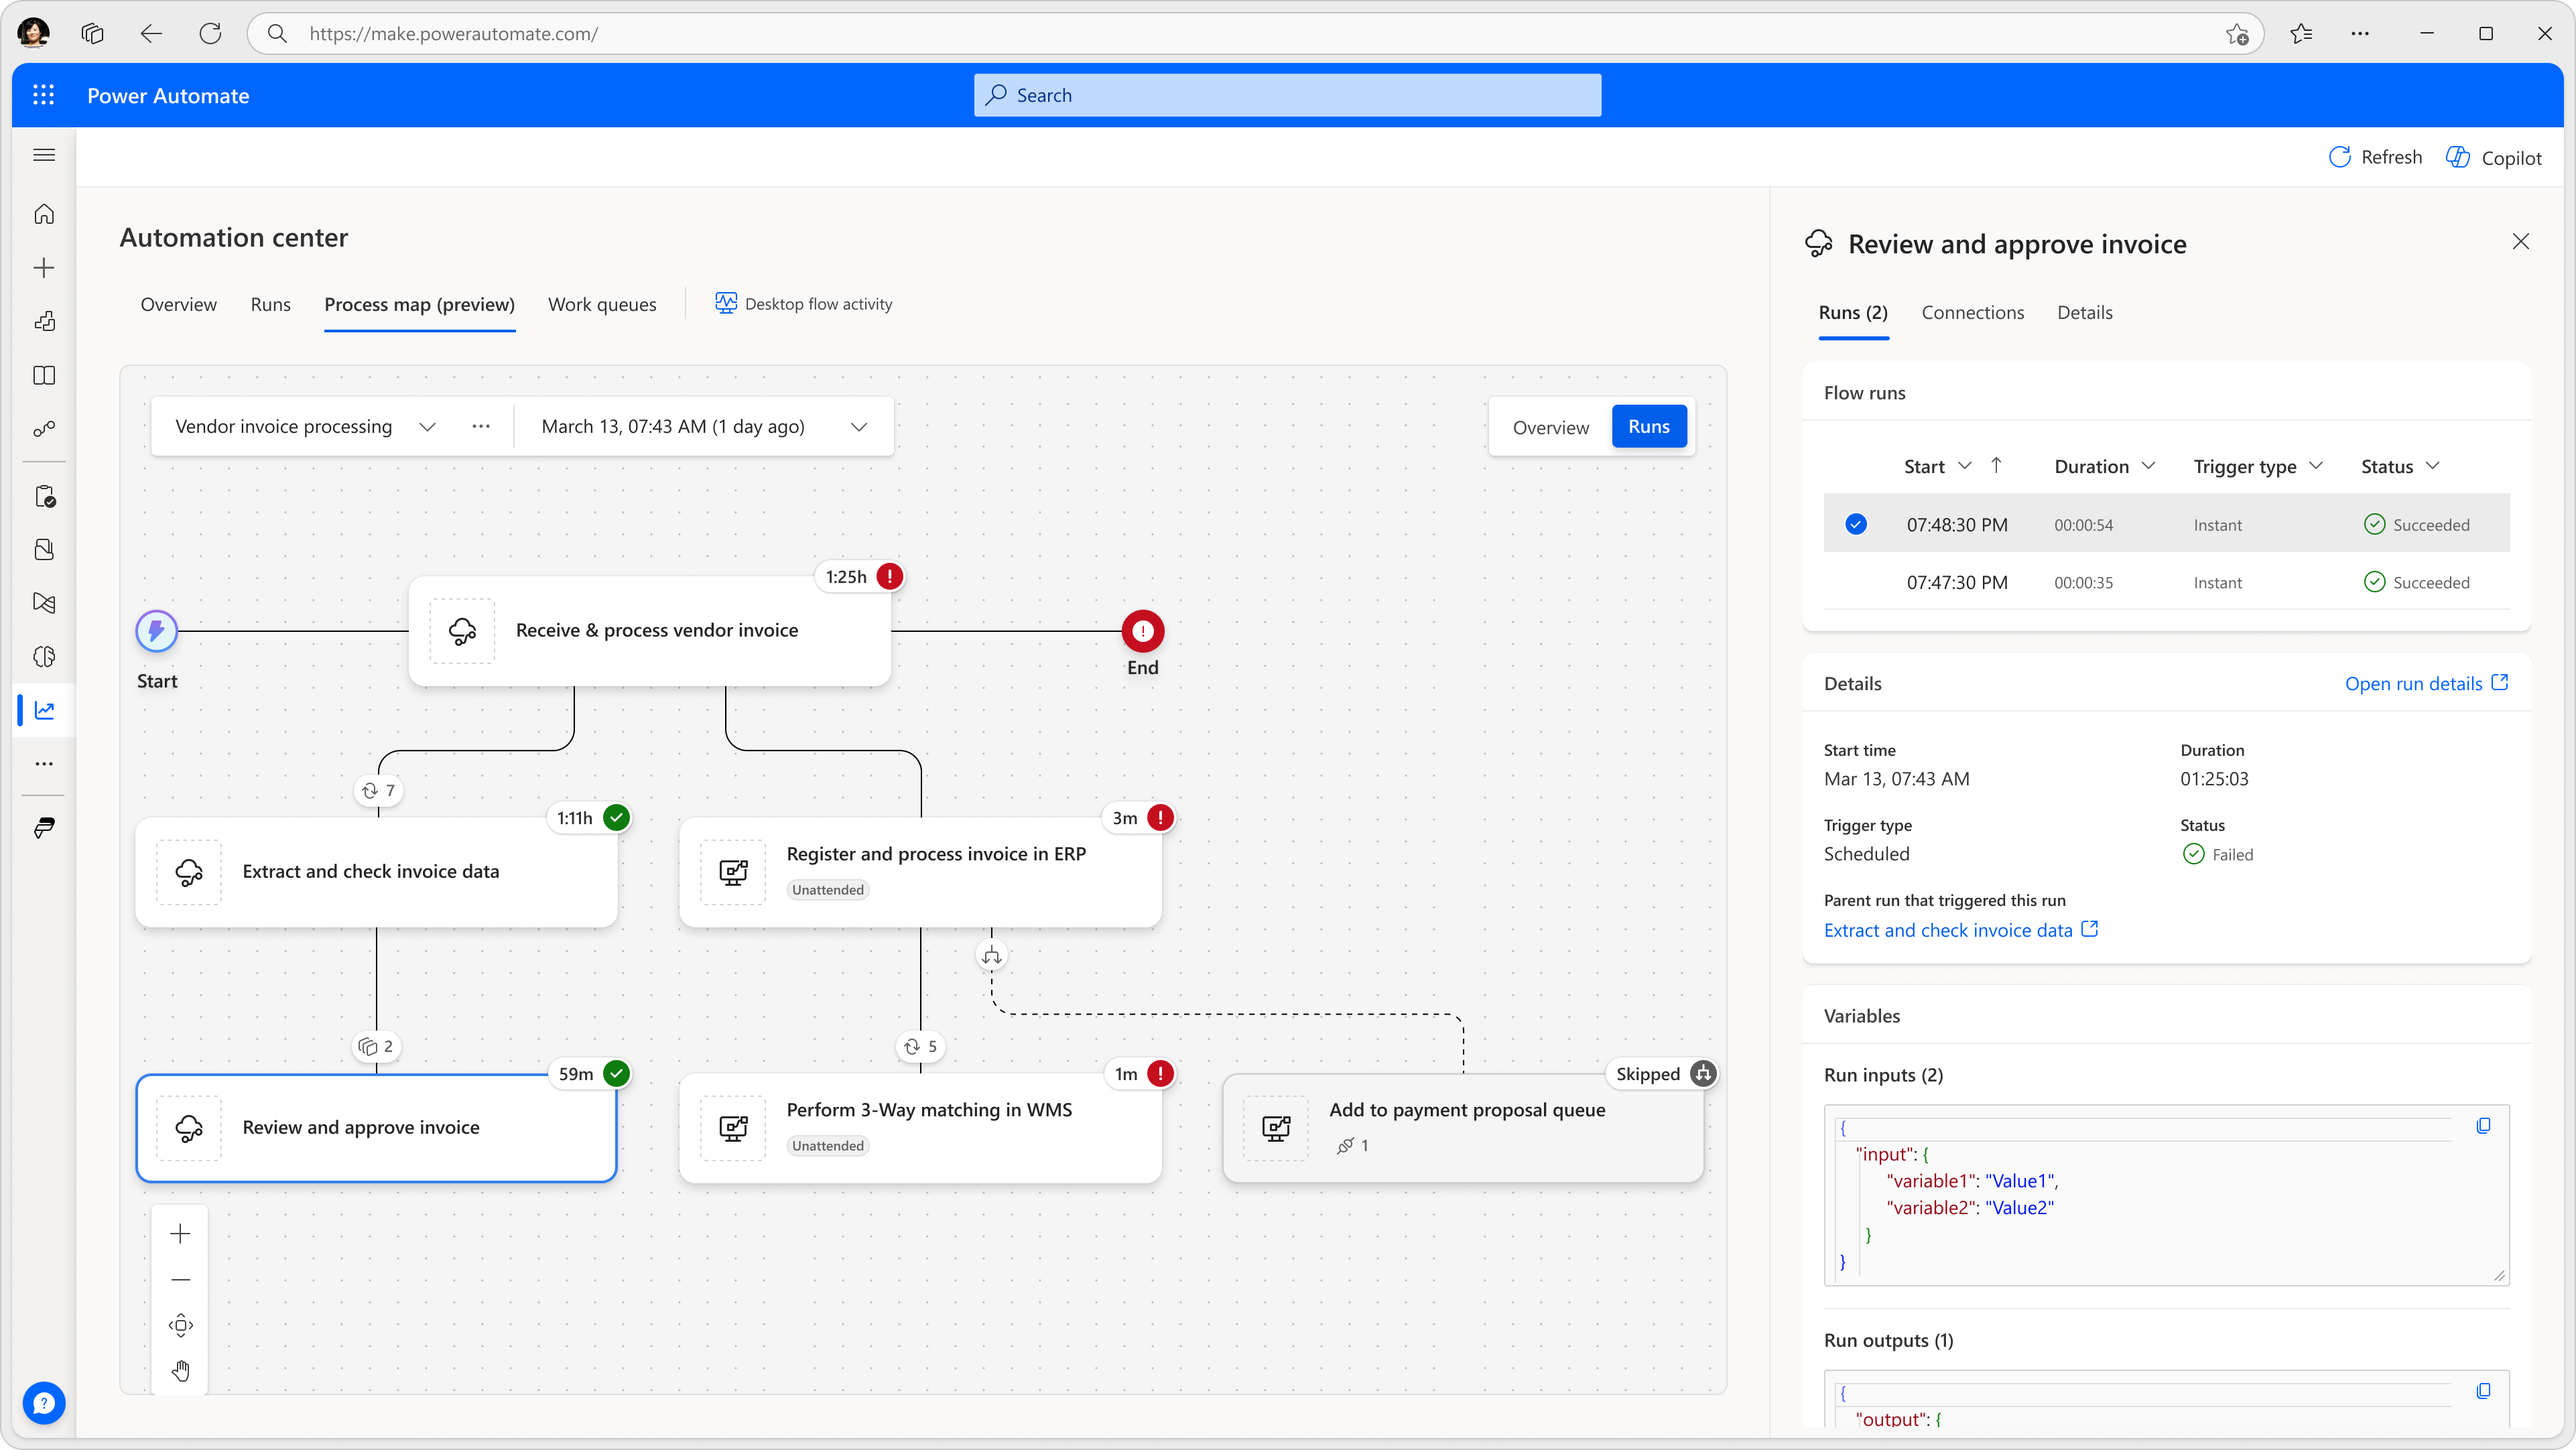
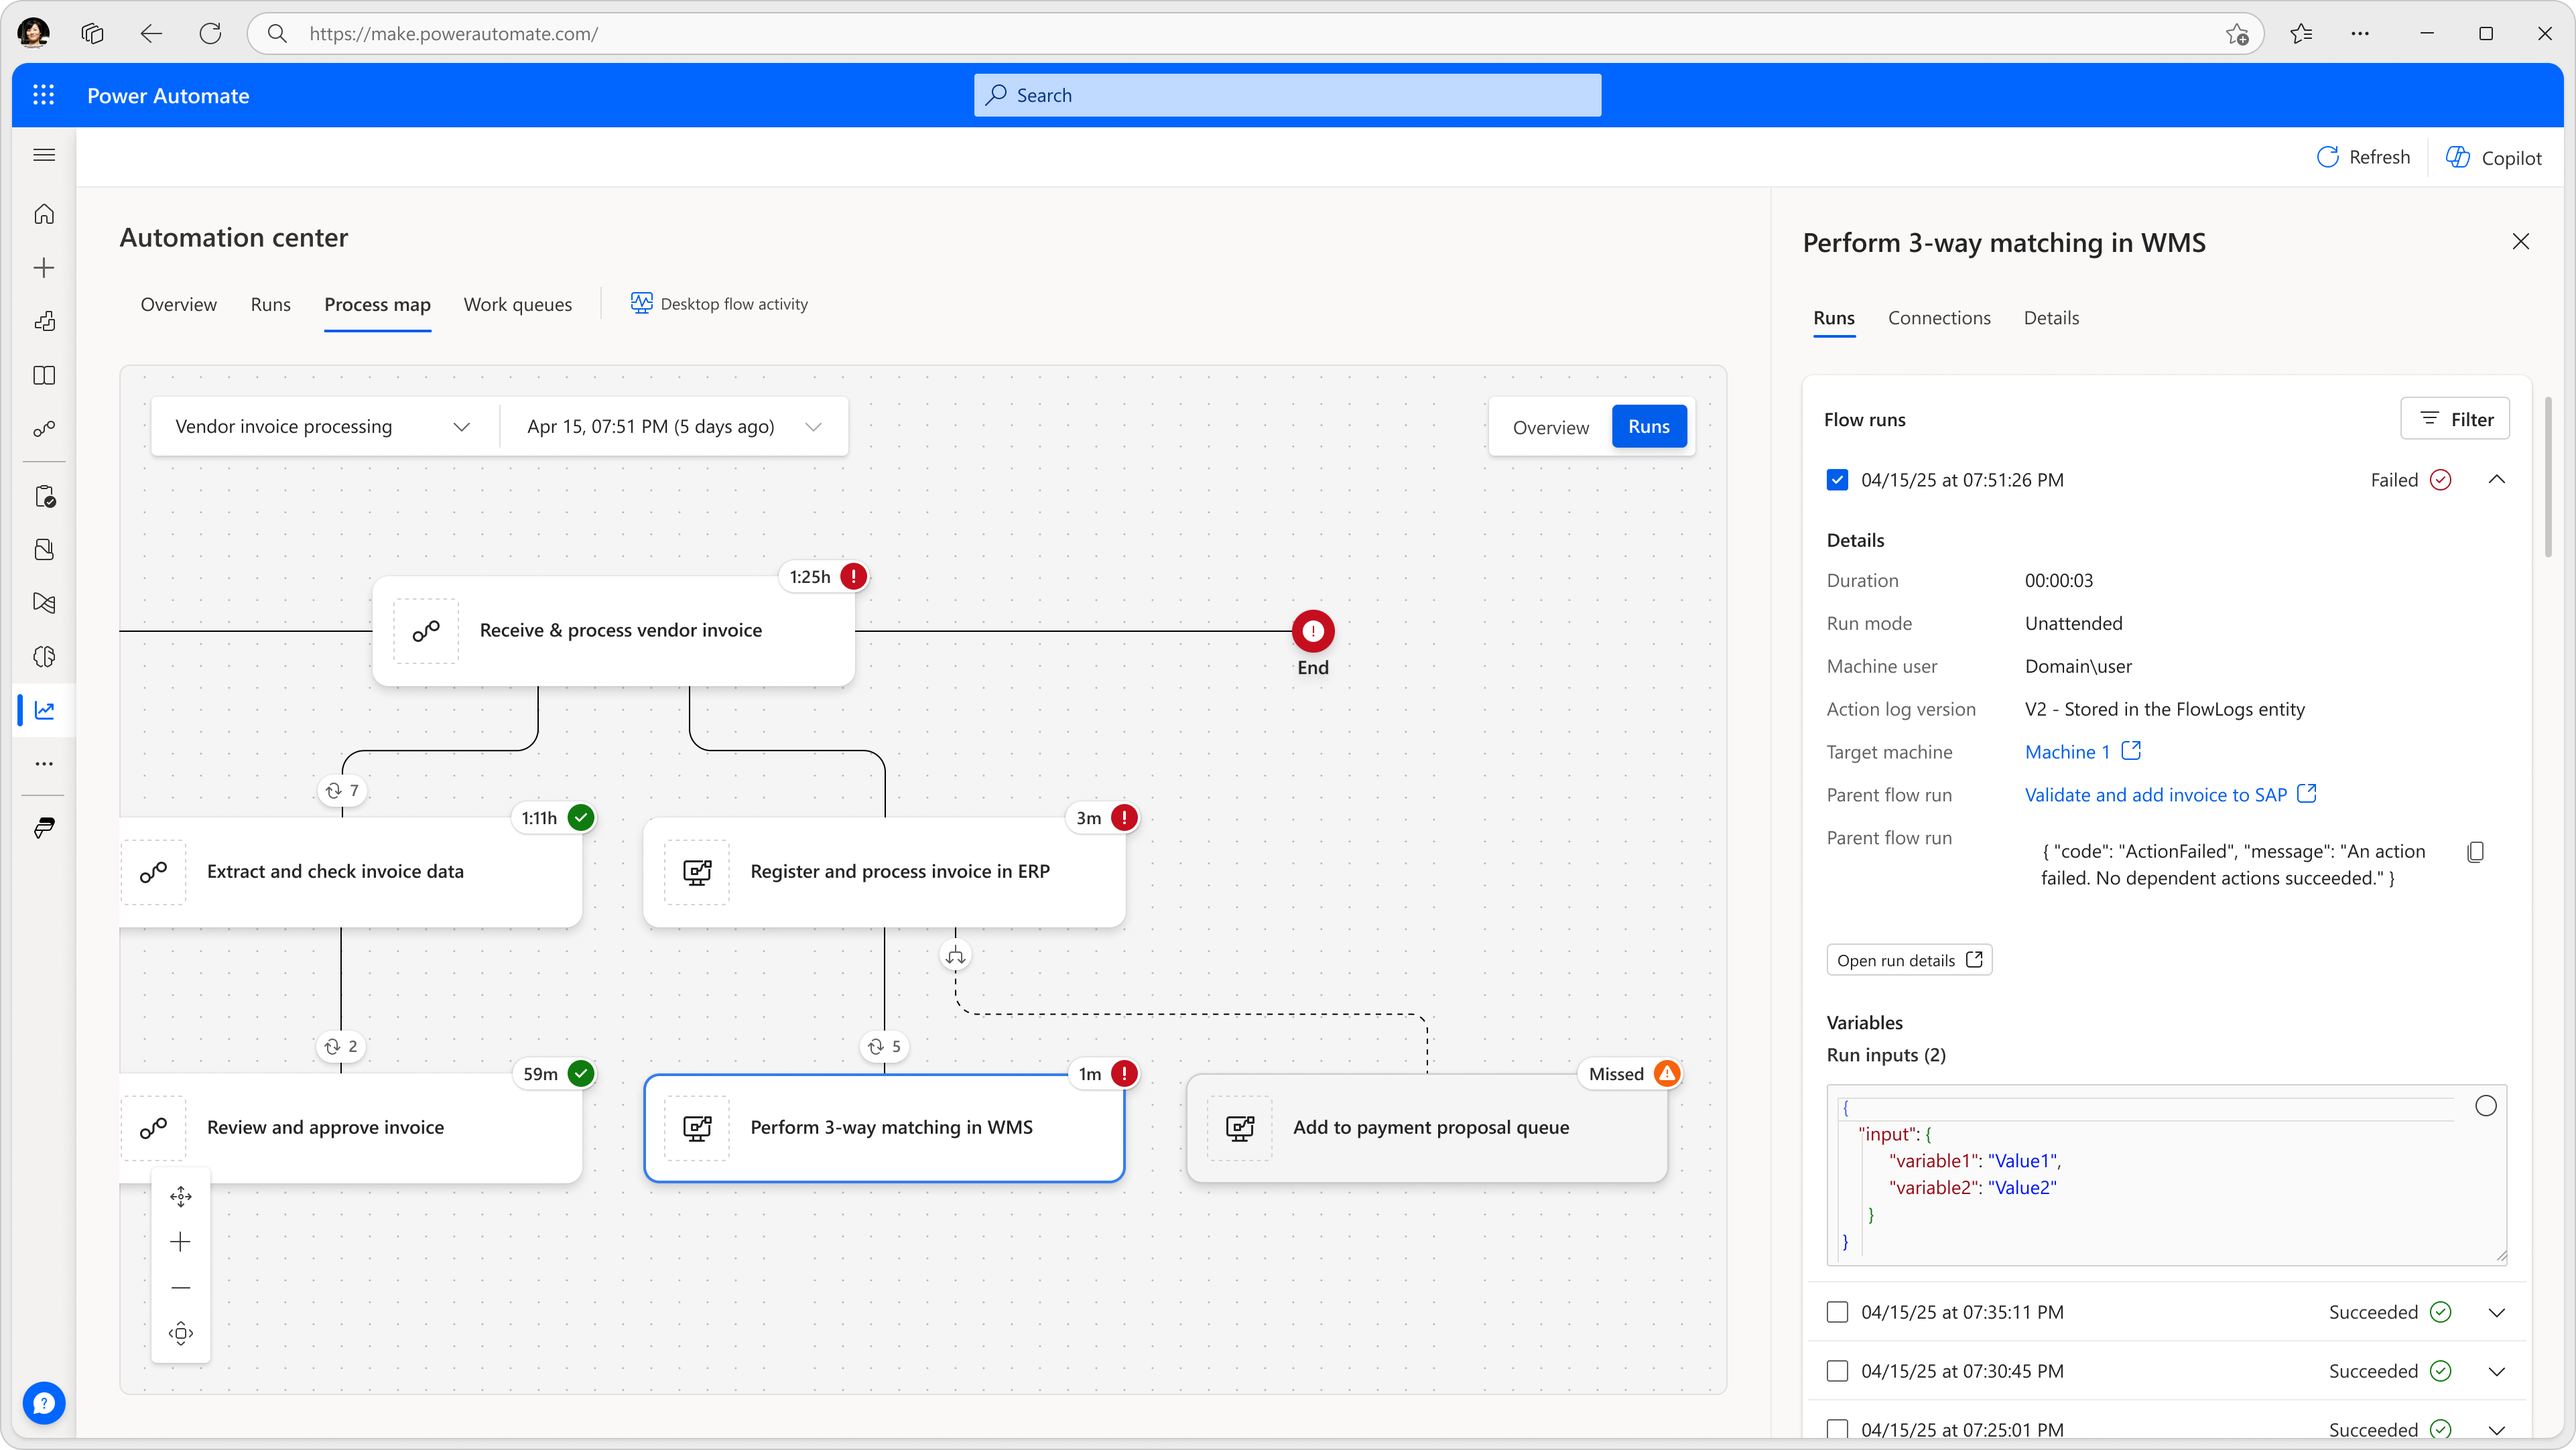
Process map GA changes

diff --git a/articles/automation-center-process-map.md b/articles/automation-center-process-map.md
@@ -1,8 +1,8 @@
 ---
-title: Improve automation monitoring with process map (preview)
+title: Improve automation monitoring with process map
 description: Enhance your automation's observability and troubleshooting efficiency story with the Automation Center's new process map
 ms.topic: how-to
-ms.date: 03/17/2025
+ms.date: 05/12/2025
 ms.author: appapaio
 ms.reviewer: dmartens
 contributors:
@@ -19,25 +19,20 @@ ms.custom:
   - ai-seo-date:03/15/2025
 ---
 
-# Improve automation monitoring with process map (preview)
+# Improve automation monitoring with process map
 
-[!INCLUDE [preview-banner](~/../shared-content/shared/preview-includes/preview-banner.md)]
-
-Building on the robust monitoring and observability features of the Automation Center, we're excited to introduce the process map (preview). This feature enhances transparency by showing process-centric flow dependencies and offers an intuitive, streamlined experience for monitoring and troubleshooting end-to-end automations.
+Building on the robust monitoring and observability features of the Automation Center, we're excited to introduce the process map. This feature enhances transparency by showing process-centric flow dependencies and offers an intuitive, streamlined experience for monitoring and troubleshooting end-to-end automations.
 
 :::image type="content" source="media/automation-center/process-map.png" alt-text="Screenshot of the process map tab in the automation center." lightbox="media/automation-center/process-map.png":::
-
-> [!IMPORTANT]
-> - Preview features aren’t meant for production use and may have restricted functionality. These features are available before an official release so that customers can get early access and provide feedback.
-> - For more information, go to our [preview terms](https://go.microsoft.com/fwlink/?linkid=2189520).
-> - This feature is rolling out and might not be available in your area yet. To try it out today, you can either use an existing preview environment or create a new one. Learn more about how to create a preview environment in [Early release cycle environments](/power-platform/admin/early-release).
-> - Process map is considered a premium capability. Any flows that are part of a process map are considered premium flows and require an appropriate license. Learn more in [Power Automate licensing](/power-platform/admin/power-automate-licensing/types?tabs=power-automate-premium%2Cpower-automate-process%2Cconnector-types).
 
 ## Navigate the process map
 
 The process map makes troubleshooting and monitoring in Power Automate more efficient and transparent. It shows the main orchestrating flow and all its child flows invoked during a process run. When a process map is created, it considers structural details like conditions, so it can show flows that are part of the process but didn't run because of certain conditional logic or errors. This helps you understand how a problem in one part of the process can affect other parts and take the right countermeasures to fix issues.
 
 When you select a flow box on the map, its side panel opens, providing detailed contextual information on run, connection, and design-time properties. This panel lets you efficiently scan through the run history and better understand the root cause and impact of errors without navigating to each run from the flow details page or the Automation Center. This efficiency is especially helpful when troubleshooting flows called in a loop by their parent, potentially producing tens or even hundreds of runs per process run.
+
+> [!IMPORTANT]
+> Process map is considered a premium capability. Any flows that are part of a process map are considered premium flows and require an appropriate license. Learn more in [Power Automate licensing](/power-platform/admin/power-automate-licensing/types?tabs=power-automate-premium%2Cpower-automate-process%2Cconnector-types).
 
 ### Runs vs overview
 
@@ -55,9 +50,9 @@ To create or view a process map in Power Automate, you have two options:
 2. Hover over a top-level flow run and select the process map icon next to the name to generate the map.
 3. If this is your first time using the process map icon, you're prompted to provide a process name and then select **Create**.
 
-### Option 2: Use the process map (preview) tab
+### Option 2: Use the process map tab
 
-1. Go to the Automation center and select the **Process map (preview)** tab.
+1. Go to the Automation center and select the **Process map** tab.
 2. On the map, you see a drop-down box in the upper left corner that lists the processes you have access to.
 3. Select the three dots (ellipsis) in the drop-down menu and select **Create a new process map**.
 
@@ -70,7 +65,7 @@ Once the process map is generated in the backend, the process name appears next 
 
 To rename or delete a process in Power Automate, follow these steps:
 
-1. Go to the Automation center and select the **Process map (preview)** tab.
+1. Go to the Automation center and select the **Process map** tab.
 1. Once on the map, you see a drop-down box in the upper left corner that lists the processes you have access to.
 1. To view the list of processes, select the three dots (ellipsis) next to the process name in the drop-down menu.
 1. From here, you can rename or delete your process.
@@ -92,16 +87,12 @@ To rename or delete a process in Power Automate, follow these steps:
 |  :::image type="icon" source="media/automation-center/legend-unattended.png":::  | Represents an unattended desktop flow run|
 |  :::image type="icon" source="media/automation-center/legend-attended.png":::  | Represents an attended desktop flow run |
 
-> [!NOTE]
-> Preview features in the Automation Center, including this process map (preview), can be disabled through the Power Platform admin center. The toggle for this setting is located under the **Power Automate Automation center** section. However, once the process map (preview) feature becomes generally available, it will be a permanent part of the Automation center and can't be turned off anymore.
-
 ## Known issues and limitations
 
 - Creating and viewing process maps requires users to have the Environment Maker or similar roles with sufficient privileges on the business process table.  
 - Runs for co-owned or shared flows aren't supported yet, which means users don't see runs for flows shared with them.  
 - Users with broader access (like admins or CoE teams) might see 'Unknown flow' as the flow name. This happens if the flow isn't explicitly shared with them or it's deleted.  
 - Process maps for top-level desktop-flows aren't supported yet.
-- Child desktop flows aren't displayed yet on the map.  
 - Parallelization features (for example, cloud flow 'Apply each' with concurrency or 'RunAfter' customizations) aren't visually represented. Such child runs appear in the order they were defined.  
 - Dynamic flow selection using a formula (instead of the standard picker) isn't supported. Such child flows are ignored.  
 - For any given run, only the first 100 child flows are loaded. For example, if flow A triggers 150 instances of flow B, only the first 100 are processed.  
